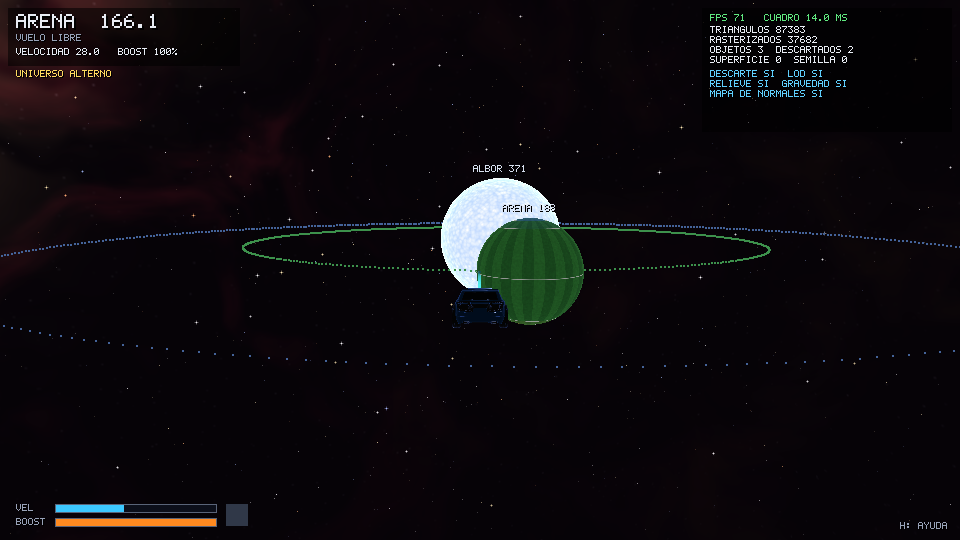
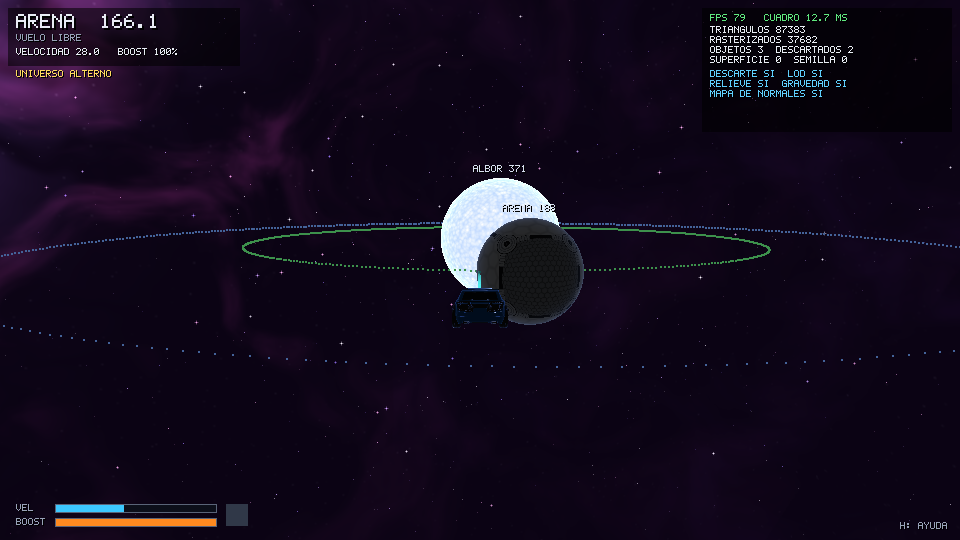
README y capturas del universo alterno morado

Changed region(s): [[0.0, 0.0, 0.3125, 0.5333], [0.5, 0.3852, 0.625, 0.6222]]

diff --git a/README.md b/README.md
@@ -49,7 +49,7 @@ Otro agujero negro, *Regreso*, encima de Albor, lleva de vuelta a casa.
 | ![Fondo: nebulosa, Vía Láctea y una galaxia espiral](docs/capturas/13_universo.png) | ![Agujero negro con disco de acreción y lente gravitacional](docs/capturas/14_agujero_negro.png) |
 | ![Universo alterno: Albor y Arena](docs/capturas/15_universo_alterno.png) | ![Mundo abierto de Arena](docs/capturas/16_mundo_abierto.png) |
 | ![Arena: un balón de Rocket League gigante](docs/capturas/19_arena_balon.png) | ![Saque en el estadio con el balón de Rocket League](docs/capturas/18_estadio.png) |
-| ![Carrera de anillos en Cobalto](docs/capturas/17_anillos.png) | |
+| ![Carrera de anillos en Cobalto](docs/capturas/17_anillos.png) | ![Regreso: el agujero negro violeta del universo alterno](docs/capturas/20_regreso.png) |
 
 ---
 
@@ -402,7 +402,8 @@ Cada shader es una función que recibe el fragmento interpolado y devuelve su co
 ### Universo alterno y minijuegos ([alternate.cpp](src/alternate.cpp), [minigames.cpp](src/minigames.cpp))
 
 - Es otra `Scene` con su estrella, sus planetas, sus estrellas de fondo y un cielo con otra paleta
-  (Vía Láctea dorada, nebulosas doradas, rojas y cian). Se **hornea en otro hilo** mientras se juega
+  de fantasía en tonos morados (fondo violeta, Vía Láctea lila, nebulosas violeta, magenta y lavanda
+  más intensas, estrellas lila y rosas, y el disco de *Regreso* violeta). Se **hornea en otro hilo** mientras se juega
   en el universo normal, así el arranque no tarda más.
 - **Albor** tiene radio 48 (el sol normal, 30), así que las órbitas de Arena y Cobalto están más lejos.
 - Cobalto no gira sobre su eje, así que sus anillos se guardan relativos al centro del planeta y
@@ -432,7 +433,8 @@ centro más cercano y la distancia hexagonal da qué tan cerca está el borde.
   por separado. La altura es plana alrededor del estadio, con colinas de ruido fractal que aparecen
   poco a poco y montañas que cierran el borde. Los árboles y rocas se reparten con semilla fija, en
   36 trozos que se descartan por vista y por distancia.
-- **Cielo:** degradado calculado por píxel, Albor enorme con su halo, y Cobalto como una luna
+- **Cielo:** degradado de atardecer lila (violeta arriba, lila rosado en el horizonte, que también
+  es el color de la niebla) calculado por píxel, Albor enorme con su halo, y Cobalto como una luna
   iluminada desde Albor.
 - **Estadio** (medidas parecidas a Rocket League con el carro de 1.4): cancha de 80 × 104 con las
   esquinas cortadas, paredes con bordes que brillan del color de cada equipo, porterías con red,
